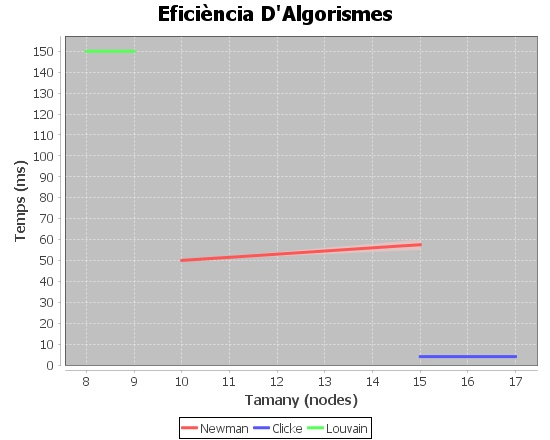
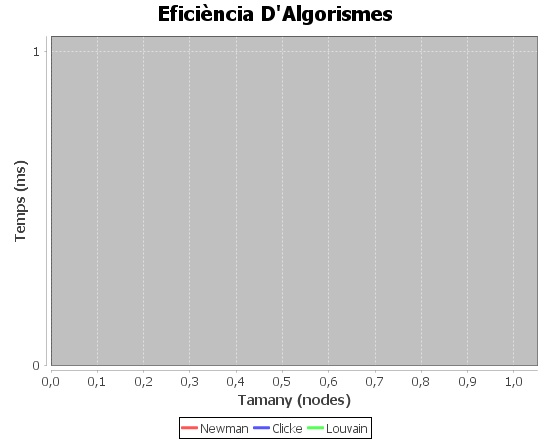
update

diff --git a/dominio/src/presentacion/VistaEstadistica.java b/dominio/src/presentacion/VistaEstadistica.java
@@ -66,6 +66,11 @@ public class VistaEstadistica extends javax.swing.JFrame {
         });
 
         jButton2.setText("Resetear Estadisticas");
+        jButton2.addActionListener(new java.awt.event.ActionListener() {
+            public void actionPerformed(java.awt.event.ActionEvent evt) {
+                jButton2ActionPerformed(evt);
+            }
+        });
 
         javax.swing.GroupLayout jPanel1Layout = new javax.swing.GroupLayout(jPanel1);
         jPanel1.setLayout(jPanel1Layout);
@@ -116,6 +121,15 @@ public class VistaEstadistica extends javax.swing.JFrame {
             Logger.getLogger(VistaEstadistica.class.getName()).log(Level.SEVERE, null, ex);
         }
     }//GEN-LAST:event_jButton1ActionPerformed
+
+    private void jButton2ActionPerformed(java.awt.event.ActionEvent evt) {//GEN-FIRST:event_jButton2ActionPerformed
+        CtrlPresentacionEstadistica.resetStatics();
+        try {
+            CtrlPresentacionEstadistica.crearGrafico(jPanel1);
+        } catch (Exception ex) {
+            Logger.getLogger(VistaEstadistica.class.getName()).log(Level.SEVERE, null, ex);
+        }
+    }//GEN-LAST:event_jButton2ActionPerformed
 
 
     /**

diff --git a/dominio/src/presentacion/controlador/CtrlPresentacionEstadistica.java b/dominio/src/presentacion/controlador/CtrlPresentacionEstadistica.java
@@ -29,6 +29,11 @@ public class CtrlPresentacionEstadistica {
 
     private static final long serialVersionUID = 1L;
 
+    public static void resetStatics(){
+        CtrlEstadistica.resetearEstadisticas();
+    }
+    
+    
     private static XYDataset createDataset() throws Exception {
         YIntervalSeries series1 = new YIntervalSeries("Newman");
         YIntervalSeries series2 = new YIntervalSeries("Clicke");

diff --git a/dominio/src/drivers/DriverEstadistica.java b/dominio/src/drivers/DriverEstadistica.java
@@ -6,7 +6,6 @@
 
 package drivers;
 
-import com.sun.media.jfxmedia.events.NewFrameEvent;
 import dominio.controlador.CtrlEstadistica;
 import presentacion.NewJFrame;
 
